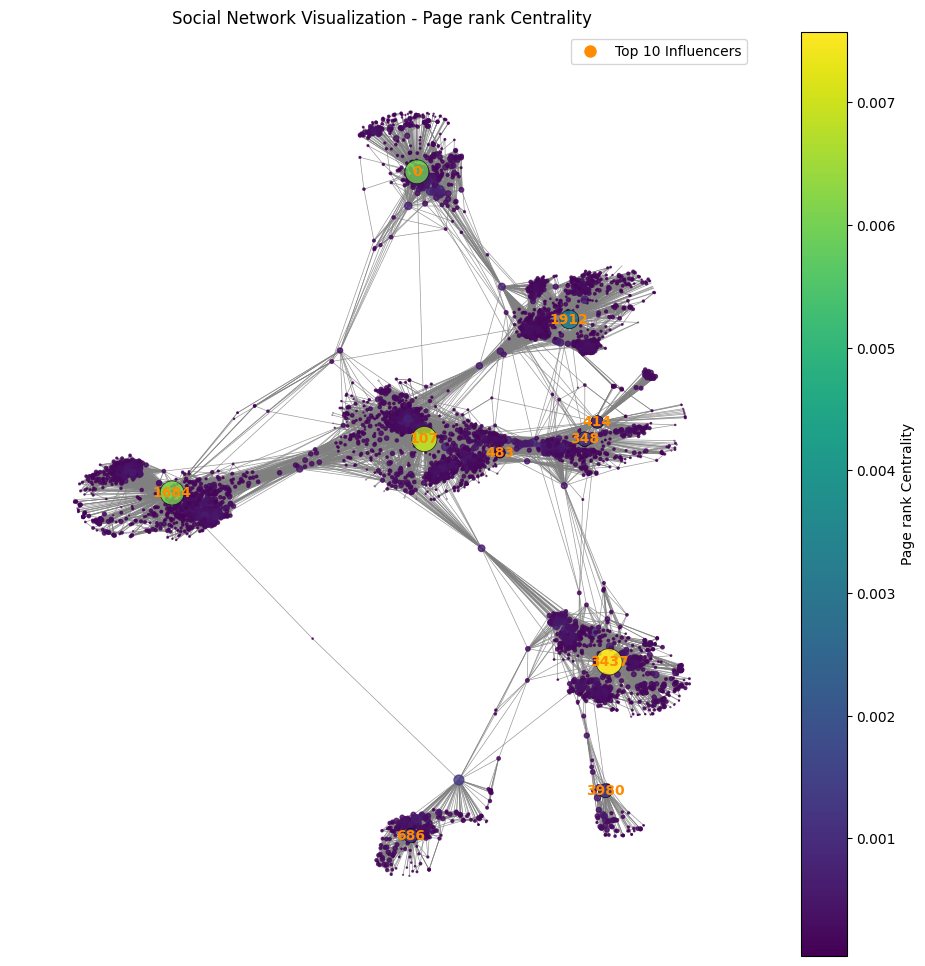
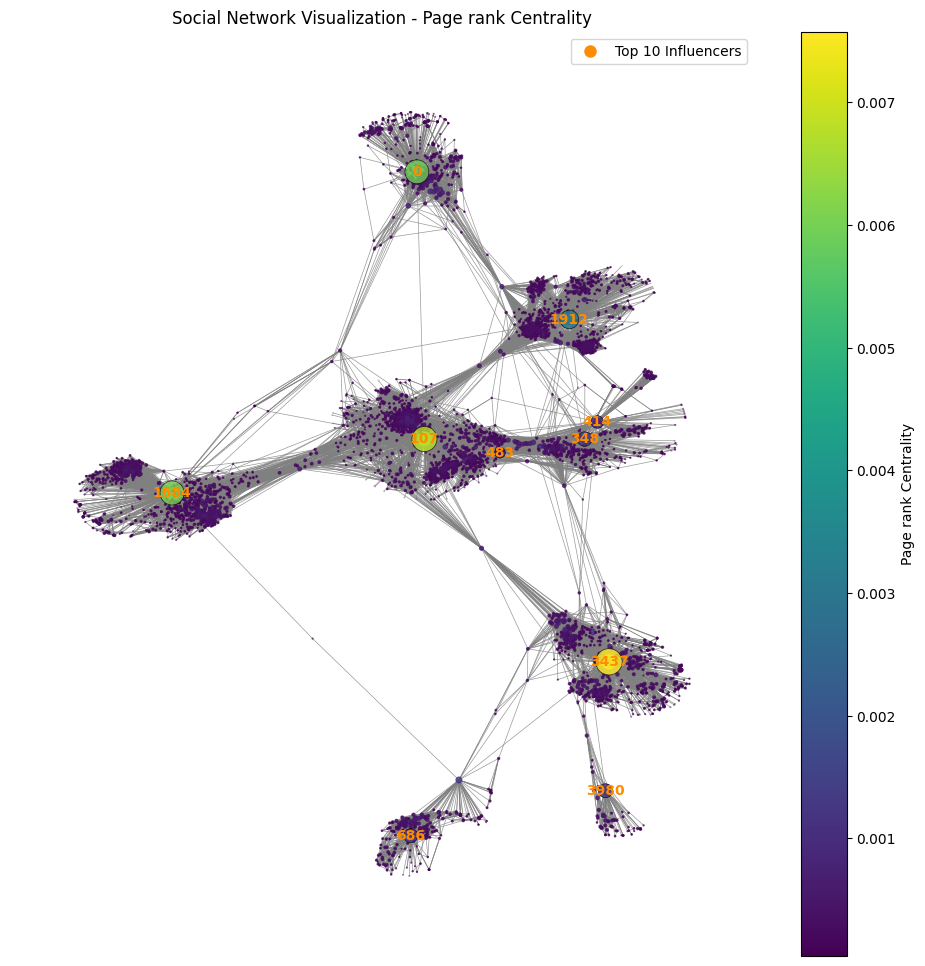
add utility function to draw the dataset

diff --git a/utils.py b/utils.py
@@ -7,16 +7,20 @@ from matplotlib.colors import Normalize
 DEFLAULT_NODES = 10
 FIGURE_SIZE = 12
 LABEL_SIZE = 10
+POSITION_SEED = 42
 EDGE_COLOR = "gray"
+NODE_COLOR = "skyblue"
+EGO_NODE_COLOR = "coral"
+EDGE_WIDTH = 0.5
 NODE_EDGE_COLOR = "black"
 LABEL_FONT_COLOR = "darkorange"
+EGO_NODE_LABEL_COLOR = "black"
 LEGEND_COLOR = "white"
 TRANSPARENCY = 0.8
-EDGE_WIDTH = 1
 DEFAULT_LAYOUT = "spring"
-NODE_SIZE = 300
-EDGE_WIDTH = 0.5
-HIGHLIGHT_SIZE_FACTOR = 1.2
+NODE_SIZE = 100
+SAMLL_NODE_SIZE = 10
+HIGHLIGHT_NODE_SIZE = 360
 COLOR_MAP = cm.viridis
 GARPH_PATH = "graphs/"
 
@@ -153,13 +157,11 @@ def compare_centrality_with_egos(centrality_list: list[tuple], ego_vertices: set
         print("Missed ego vertices:", missed_ego_vertices)
 
 
-def plot_social_network(
+def plot_social_network_with_centrality(
     adjacency_list,
     centrality,
     centrality_measure,
     top_nodes,
-    node_size_factor=NODE_SIZE,
-    edge_width=EDGE_WIDTH,
     layout_algorithm=DEFAULT_LAYOUT,
 ):
     """
@@ -170,8 +172,6 @@ def plot_social_network(
         centrality (dict): Centrality measure to visualize ('betweenness', 'eigenvector', 'pagerank').
         centrality_measure (str): The centrality measure used for visualization.
         top_nodes (list): List of top N nodes to highlight.
-        node_size_factor (int): Scaling factor for node sizes.
-        edge_width (float): Width of edges in the graph.
         layout_algorithm (str): Layout algorithm ('spring', 'circular', 'kamada_kawai').
     """
     # Load adjacency list
@@ -187,14 +187,14 @@ def plot_social_network(
     norm = Normalize(vmin=min_centrality, vmax=max_centrality)
     
     # Set node sizes based on normalized centrality
-    node_sizes = [norm(centrality[node]) * node_size_factor for node in nx_graph.nodes()]
+    node_sizes = [norm(centrality[node]) * NODE_SIZE for node in nx_graph.nodes()]
     
     # Create set of top nodes for highlighting
     top_nodes_set = set(node for node, _ in top_nodes)
     
     # Choose layout based on specified algorithm
     if layout_algorithm == "spring":
-        pos = nx.spring_layout(nx_graph, seed=42)
+        pos = nx.spring_layout(nx_graph, seed=POSITION_SEED)
     elif layout_algorithm == "circular":
         pos = nx.circular_layout(nx_graph)
     elif layout_algorithm == "kamada_kawai":
@@ -220,7 +220,7 @@ def plot_social_network(
     nx.draw_networkx_edges(
         nx_graph,
         pos,
-        width=edge_width,
+        width=EDGE_WIDTH,
         edge_color=EDGE_COLOR,
         alpha=TRANSPARENCY,
         ax=ax
@@ -228,8 +228,7 @@ def plot_social_network(
     
     # Draw the top nodes with a different border color to highlight them
     if top_nodes_set:
-        top_node_sizes = [norm(centrality[node]) * node_size_factor * \
-                          HIGHLIGHT_SIZE_FACTOR for node in top_nodes_set]
+        top_node_sizes = [norm(centrality[node]) * HIGHLIGHT_NODE_SIZE for node in top_nodes_set]
         nx.draw_networkx_nodes(
             nx_graph,
             pos,
@@ -273,5 +272,91 @@ def plot_social_network(
     
     # Save the figure
     output_filename = f"{centrality_measure.title()} Graph.png"
+    plt.savefig(GARPH_PATH + output_filename, bbox_inches='tight')
+    print(f"Social network visualization saved as {output_filename}")
+
+
+def plot_social_network(adjacency_list:dict, ego_nodes:set) -> None:
+    """
+    Visualizes a social network using NetworkX and Matplotlib.
+
+    Args:
+        adjacency_list (dict): Adjacency list data as a dictionary of adjacency_list.
+        ego_nodes (set): Set of ego nodes to highlight.
+
+    Returns:
+        None
+    """
+    # Load adjacency list
+    if not isinstance(adjacency_list, dict):
+        raise TypeError("adjacency_list must be a dictionary")
+
+    # Create NetworkX graph from adjacency list
+    nx_graph = nx.Graph(adjacency_list)
+    
+    # Choose layout based on specified algorithm
+    pos = nx.spring_layout(nx_graph, seed=POSITION_SEED)
+
+    # Create figure and axis
+    _, ax = plt.subplots(figsize=(FIGURE_SIZE, FIGURE_SIZE))
+
+    # Draw all nodes with color based on centrality
+    nx.draw_networkx_nodes(
+        nx_graph,
+        pos,
+        node_color=NODE_COLOR,
+        node_size=SAMLL_NODE_SIZE,
+        alpha=TRANSPARENCY,
+        ax=ax
+    )
+    
+    # Draw edges
+    nx.draw_networkx_edges(
+        nx_graph,
+        pos,
+        width=EDGE_WIDTH,
+        edge_color=EDGE_COLOR,
+        alpha=TRANSPARENCY,
+        ax=ax
+    )
+    
+    # Highlight ego nodes with a different node color
+    ego_node_size = [HIGHLIGHT_NODE_SIZE for _ in ego_nodes]
+    nx.draw_networkx_nodes(
+        nx_graph,
+        pos,
+        nodelist=list(ego_nodes),
+        node_size=ego_node_size,
+        node_color=EGO_NODE_COLOR,
+        edgecolors=NODE_EDGE_COLOR,
+        linewidths=EDGE_WIDTH,
+        alpha=TRANSPARENCY,
+        ax=ax
+    )
+
+    # Add node labels for ego nodes only to prevent overcrowding
+    labels = {node: str(node) for node in ego_nodes}
+    nx.draw_networkx_labels(
+        nx_graph,
+        pos,
+        labels=labels,
+        font_size=LABEL_SIZE,
+        font_color=EGO_NODE_LABEL_COLOR,
+        font_weight='bold',
+        ax=ax
+    )
+
+    # Add legend for ego nodes
+    legend_elements = [plt.Line2D([0], [0], marker='o', color=LEGEND_COLOR, 
+                                 markerfacecolor=EGO_NODE_COLOR, markersize=LABEL_SIZE, 
+                                 label=f'Ego Nodes')]
+    ax.legend(handles=legend_elements, loc='upper right')
+
+    # Set title and remove axis
+    plt.title("SNAP Facebook Social Network Visualization")
+    plt.axis('off')
+
+    # Save the figure
+    output_filename = "Facebook Dataset.png"
     plt.savefig(GARPH_PATH + output_filename, bbox_inches='tight')
     print(f"Social network visualization saved as {output_filename}")

diff --git a/main.py b/main.py
@@ -1,6 +1,6 @@
 from utils import create_adjacency_list, create_adjacency_matrix, \
     get_top_centrality, compare_centrality_with_egos, \
-    plot_social_network
+    plot_social_network_with_centrality, plot_social_network
 from betweenness_centrality import betweenness_centrality
 from eigenvector import eigenvector_centrality
 from page_rank import page_rank_centrality
@@ -13,8 +13,9 @@ EGO_VERTICES = {0, 107, 348, 414, 686, 698, 1684, 1912, 3437, 3980}
 def main():
     try:
         print("Creating Adjacency Matrix and List...")
-        adjacency_matrix = create_adjacency_matrix(DATA_FILE)
+        # adjacency_matrix = create_adjacency_matrix(DATA_FILE)
         adjacency_list = create_adjacency_list(DATA_FILE)
+        plot_social_network(adjacency_list, EGO_VERTICES)
         # TODO: change the main function by using a loop to call other functions
 
         # Calculate betweenness centrality for a graph
@@ -23,7 +24,7 @@ def main():
         top_bcentrality_nodes = get_top_centrality(b_centrality, top_n=DEFLAULT_NODES)
         print("Top 10 Centrality:", top_bcentrality_nodes)
         compare_centrality_with_egos(top_bcentrality_nodes, EGO_VERTICES)
-        plot_social_network(adjacency_list, b_centrality, "betweenness", top_bcentrality_nodes)
+        plot_social_network_with_centrality(adjacency_list, b_centrality, "betweenness", top_bcentrality_nodes)
 
         # Calculate eigenvector centrality for a graph
         # TODO: need to update the eigenvector_centrality function to return a dictionary
@@ -40,8 +41,7 @@ def main():
         top_pagerank_centrality_nodes = get_top_centrality(pagerank_centrality, top_n=DEFLAULT_NODES)
         print("Top 10 PageRank Centrality:", top_pagerank_centrality_nodes)
         compare_centrality_with_egos(top_pagerank_centrality_nodes, EGO_VERTICES)
-        plot_social_network(adjacency_list, pagerank_centrality, "page rank", top_pagerank_centrality_nodes)
-
+        plot_social_network_with_centrality(adjacency_list, pagerank_centrality, "page rank", top_pagerank_centrality_nodes)
 
     except FileNotFoundError as e:
         print(f"Error: {e}. Please check the file path.")
